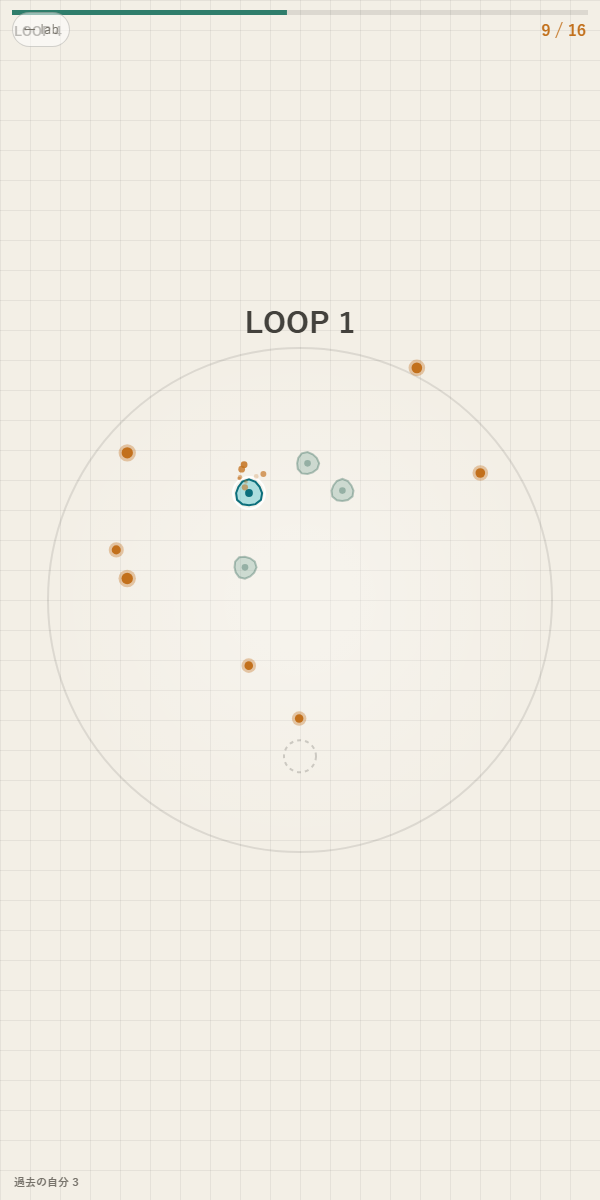
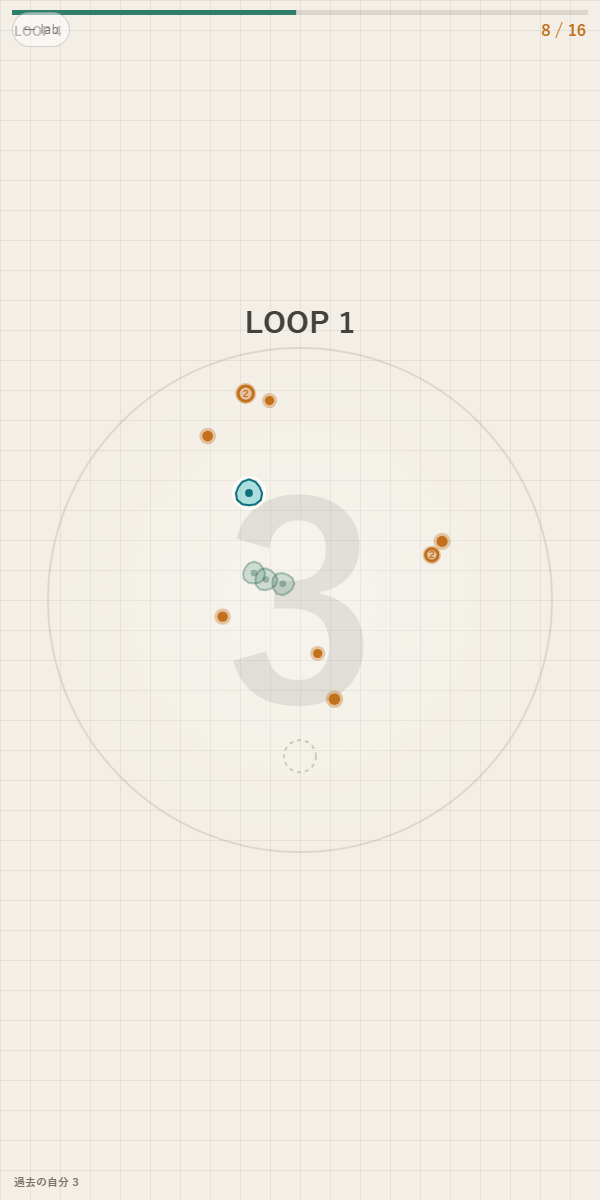
loop5: 中央に大カウントダウン＋過去/今の相互作用（硬い養分・幽霊リンク）
- 5秒テーマを主役に：シャーレ中央に大きな残り秒数（脈打つ・最後は赤）。
- 相互作用：「硬い養分(2)」は別々の2アクターのタッチで取れる＝過去の自分が始め、
  今の自分が仕上げる協力が必須。回収は actorID 集合で“同じ人は1回まで”管理。
- 近い幽霊と細い線で繋がる演出（協力の可視化）。
- 説明文・サムネ更新。

Claude-Session: https://claude.ai/code/session_01DuezcohD5DxwyBiBBnAQex

diff --git a/games/loop5/main.ts b/games/loop5/main.ts
@@ -125,7 +125,8 @@ const P = tune.panel(
 )
 
 // ── 型・状態 ──
-type Orb = { x: number; y: number; got: boolean }
+// need=必要タッチ数（硬い養分は2）。by=この周に触れたアクターID集合（同じ人は1回まで）
+type Orb = { x: number; y: number; got: boolean; need: number; hits: number; by: Set<number> }
 type Sample = { t: number; x: number; y: number }
 type Mode = 'title' | 'play' | 'win'
 let mode: Mode = 'title'
@@ -159,7 +160,8 @@ function newLayout() {
   for (let i = 0; i < n; i++) {
     const a = Math.random() * Math.PI * 2
     const r = Math.sqrt(Math.random()) * dishR * 0.84
-    orbs.push({ x: cx + Math.cos(a) * r, y: cy + Math.sin(a) * r, got: false })
+    const hard = Math.random() < 0.35 // 約1/3は“硬い養分”＝2体の協力が要る
+    orbs.push({ x: cx + Math.cos(a) * r, y: cy + Math.sin(a) * r, got: false, need: hard ? 2 : 1, hits: 0, by: new Set() })
   }
   ghosts = []
   loopNum = 1
@@ -167,7 +169,11 @@ function newLayout() {
 }
 
 function startLoop() {
-  for (const o of orbs) o.got = false
+  for (const o of orbs) {
+    o.got = false
+    o.hits = 0
+    o.by.clear()
+  }
   rec = []
   gcur = ghosts.map(() => 0)
   loopTime = 0
@@ -201,14 +207,22 @@ function clampToDish(p: { x: number; y: number }) {
   }
 }
 
-function tryCollect(x: number, y: number) {
+function tryCollect(x: number, y: number, id: number) {
   for (const o of orbs) {
-    if (o.got) continue
+    if (o.got || o.by.has(id)) continue // 同じアクターは1回まで
     if (Math.hypot(o.x - x, o.y - y) < 20) {
-      o.got = true
-      collected++
-      fx.burst(o.x, o.y, 8, C.amber, 160)
-      SFX.collect()
+      o.by.add(id)
+      o.hits++
+      if (o.hits >= o.need) {
+        o.got = true
+        collected++
+        fx.burst(o.x, o.y, o.need > 1 ? 12 : 8, C.amber, 180)
+        SFX.collect()
+      } else {
+        // 硬い養分にヒビ（あと1人）
+        fx.burst(o.x, o.y, 5, C.amber, 110)
+        blip(420, 0.05, 'square', 0.04, 520)
+      }
     }
   }
 }
@@ -270,10 +284,10 @@ function update(dt: number) {
   for (let k = 0; k < ghosts.length; k++) {
     const g = ghostPosAt(ghosts[k], loopTime, gcur[k])
     gcur[k] = g.ci
-    tryCollect(g.x, g.y)
+    tryCollect(g.x, g.y, k)
   }
-  // 自分の回収
-  tryCollect(you.x, you.y)
+  // 自分の回収（自分のID = -1）
+  tryCollect(you.x, you.y, -1)
 
   // 全部集めた＝クリア
   if (collected >= orbs.length) {
@@ -382,23 +396,72 @@ function cellShape(x: number, y: number, r: number, fill: string, edge: string, 
 function drawOrbs() {
   for (const o of orbs) {
     if (o.got) continue
-    const pr = 5 + Math.sin(time * 5 + o.x) * 0.8
+    const hard = o.need > 1
+    const cracked = o.hits > 0
+    const pr = (hard ? 7 : 5) + Math.sin(time * 5 + o.x) * 0.8
+    // グロー
     ctx.globalAlpha = 0.35
     ctx.fillStyle = C.amber
     ctx.beginPath()
     ctx.arc(o.x, o.y, pr + 3, 0, Math.PI * 2)
     ctx.fill()
     ctx.globalAlpha = 1
-    ctx.beginPath()
-    ctx.arc(o.x, o.y, pr, 0, Math.PI * 2)
-    ctx.fill()
+    // 本体（硬い養分はヒビ前は中空リング、ヒビ後は満ちる）
+    if (hard && !cracked) {
+      ctx.strokeStyle = C.amber
+      ctx.lineWidth = 3
+      ctx.beginPath()
+      ctx.arc(o.x, o.y, pr, 0, Math.PI * 2)
+      ctx.stroke()
+      // 「2」＝2体必要のサイン
+      ctx.fillStyle = C.amber
+      ctx.font = `800 10px ${FONT}`
+      ctx.textAlign = 'center'
+      ctx.fillText('2', o.x, o.y + 3.5)
+    } else {
+      ctx.fillStyle = C.amber
+      ctx.beginPath()
+      ctx.arc(o.x, o.y, pr, 0, Math.PI * 2)
+      ctx.fill()
+      if (hard) {
+        // ヒビ済み＝あと1人で取れる合図（白フチ）
+        ctx.strokeStyle = '#fff'
+        ctx.lineWidth = 1.5
+        ctx.stroke()
+      }
+    }
   }
 }
 
+// シャーレ中央の大きな残り秒数（5秒テーマを主役に）
+function drawCountdown() {
+  const rem = Math.max(0, P.LOOP - loopTime)
+  const n = Math.ceil(rem - 0.0001) || 0
+  const frac = rem - Math.floor(rem) // 1→0 で各秒が脈打つ
+  const pop = 1 + (1 - frac) * 0.12
+  ctx.save()
+  ctx.textAlign = 'center'
+  ctx.textBaseline = 'middle'
+  ctx.font = `800 ${Math.round(Math.min(W, H) * 0.42 * pop)}px ${FONT}`
+  ctx.fillStyle = rem <= 1.5 ? hexA(C.danger, 0.16) : hexA(C.ink, 0.09)
+  ctx.fillText(String(n), cx, cy)
+  ctx.restore()
+  ctx.textBaseline = 'alphabetic'
+}
+
 function drawActors() {
-  // 幽霊（過去の自分）：半透明
+  // 幽霊（過去の自分）：半透明。近い幽霊とは細い線で繋がる＝協力の可視化
   for (let k = 0; k < ghosts.length; k++) {
     const g = ghostPosAt(ghosts[k], loopTime, gcur[k])
+    const d = Math.hypot(g.x - you.x, g.y - you.y)
+    if (d < 64) {
+      ctx.strokeStyle = hexA(C.you, (1 - d / 64) * 0.5)
+      ctx.lineWidth = 1.5
+      ctx.beginPath()
+      ctx.moveTo(you.x, you.y)
+      ctx.lineTo(g.x, g.y)
+      ctx.stroke()
+    }
     ctx.globalAlpha = 0.4
     cellShape(g.x, g.y, 11, hexA(C.ghost, 0.5), hexA(C.ghostDeep, 0.8), time * 1.2 + k)
     ctx.globalAlpha = 1
@@ -449,7 +512,7 @@ function drawBanner() {
 function drawTitle() {
   drawHowToCard(ctx, W, H, {
     title: '5秒、くりかえし。',
-    lines: ['5秒で養分を集める。指で動く', '5秒たつと“過去の自分”が幽霊で再生', '昔の自分と協力して全部集めろ'],
+    lines: ['5秒で養分を集める（指で動く）', '5秒ごとに“過去の自分”が幽霊で再生', '「2」の養分は2体で。協力で全部集めろ'],
     start: 'タップでスタート',
     footer: bestLoops > 0 ? `best: ${bestLoops}周でクリア` : undefined,
     accent: C.amber,
@@ -508,6 +571,7 @@ function frame(now: number) {
   shake.apply(ctx)
   drawField()
   if (mode !== 'title') {
+    drawCountdown() // 中央の大きな残り秒数（オーブの背面）
     drawOrbs()
     drawActors()
     fx.draw(ctx)